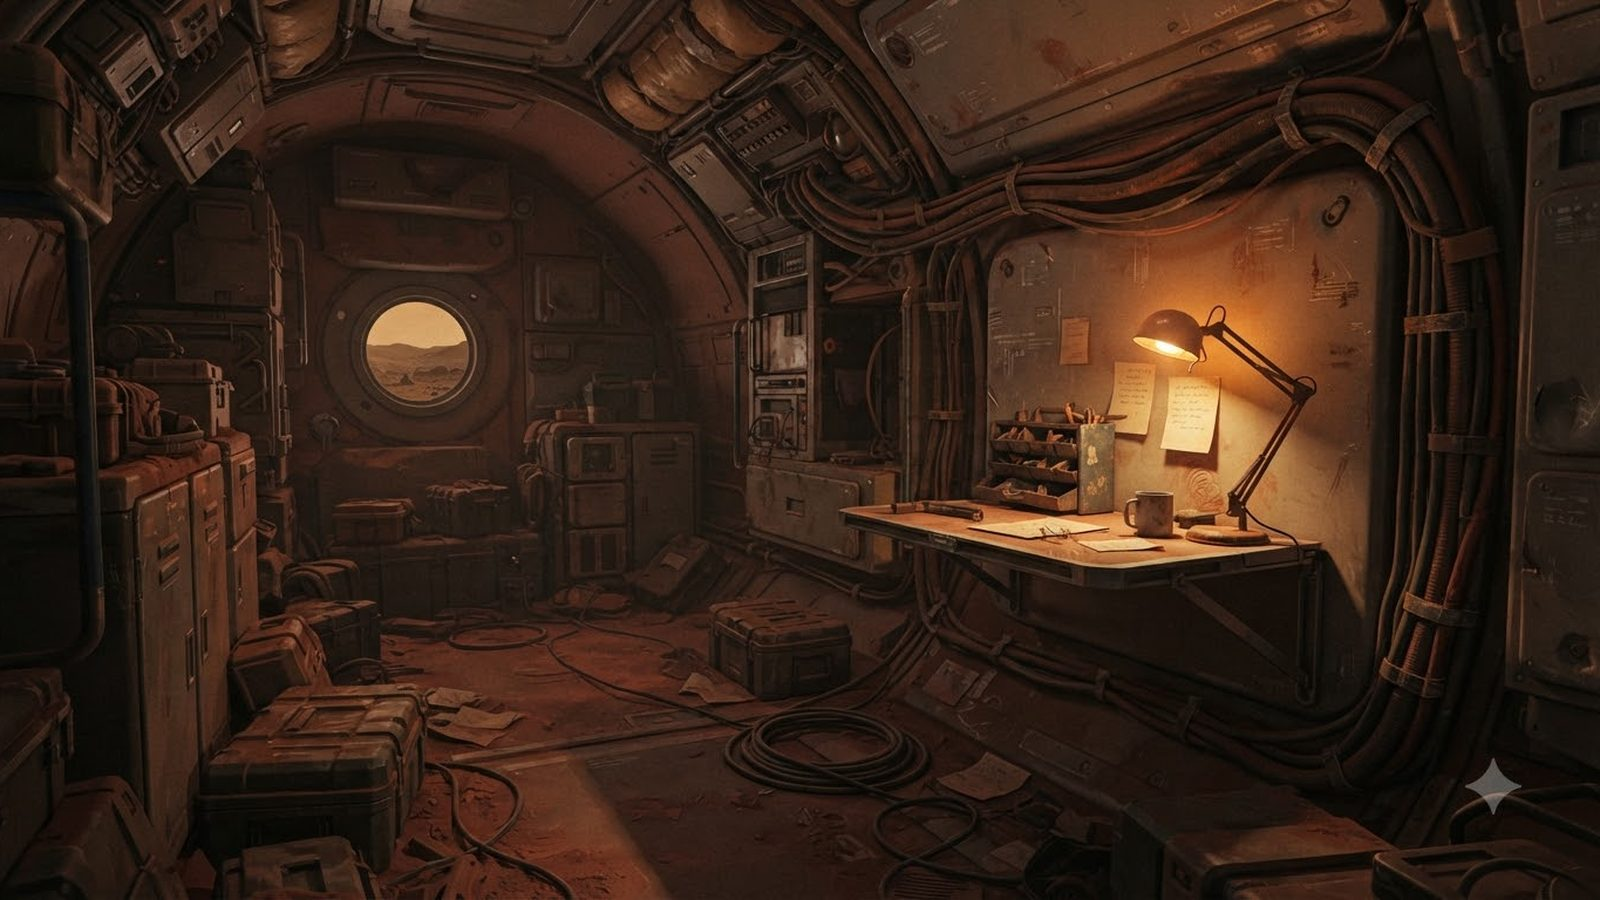
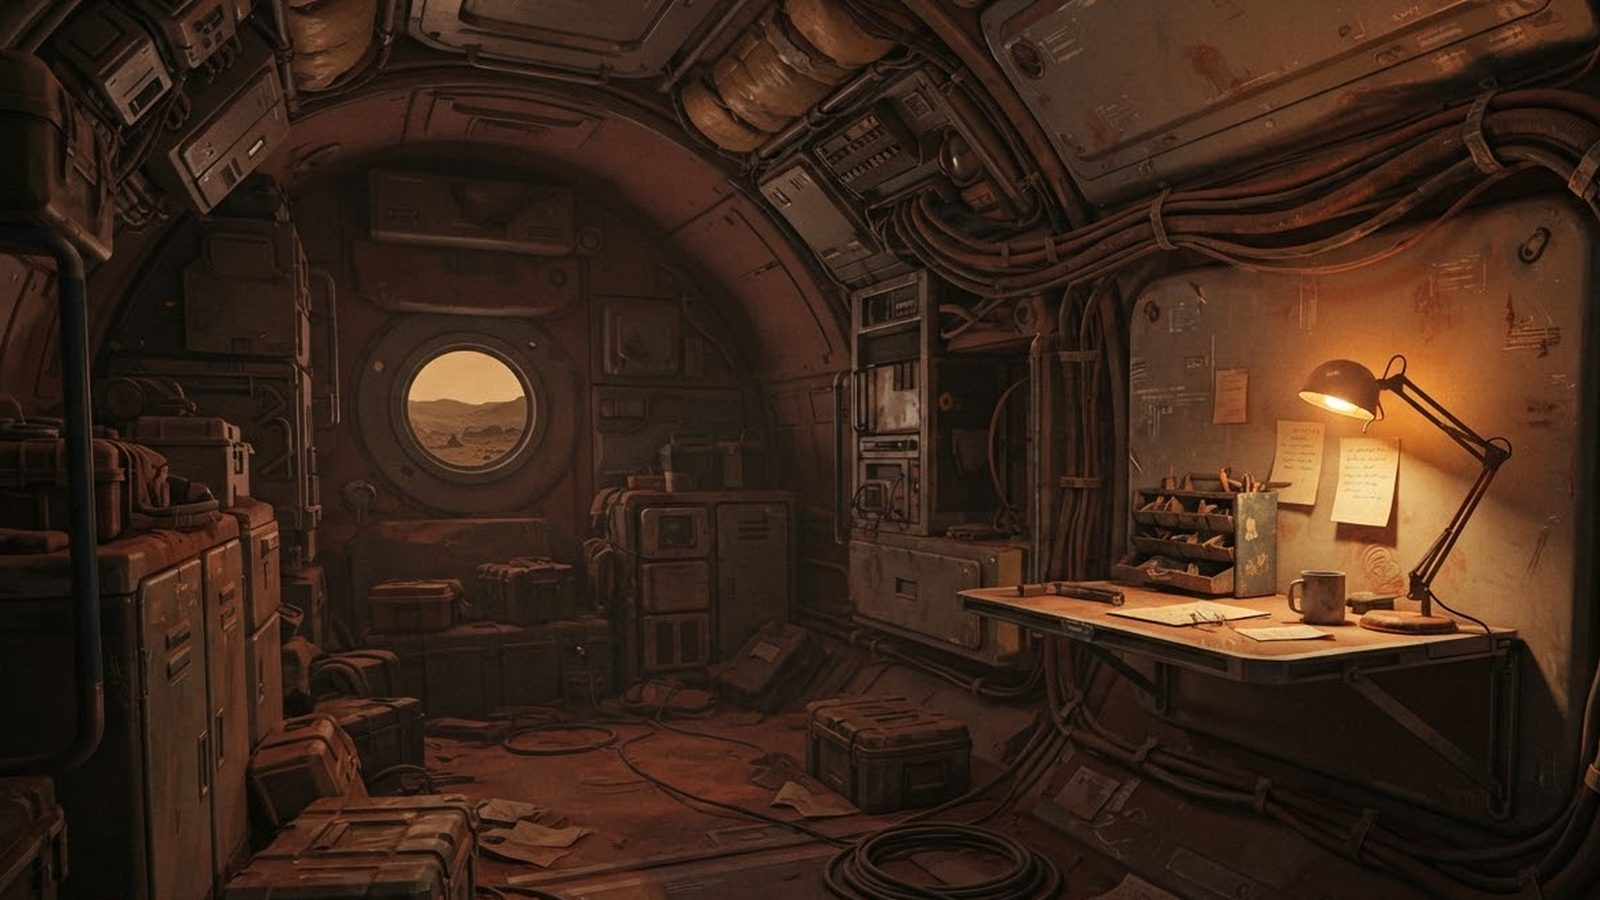
feat(art): regenerate 17 assets with adaptive watermark removal
- gen-assets.py regenerated full set (5 scenes + 12 icons, 1376x768 source)
- process-assets.py: find_watermark() detects star by low saturation +
  brightness against local background, adaptive threshold per region
- Watermark removal by cropping the contaminated edge strip instead of
  painting over: three inpaint attempts (flat fill, local background
  subtract, median filter) each left visible artefacts because the
  watermark is semi-transparent over live detail
- Verified all 17 assets: 0 watermark pixels remain, no artefacts
- Icons still 128x128 with 2px border and even padding; -50% total size

diff --git a/scripts/process-assets.py b/scripts/process-assets.py
@@ -17,6 +17,7 @@ import json
 import sys
 from pathlib import Path
 
+import numpy as np
 from PIL import Image, ImageChops, ImageDraw, ImageFilter
 
 ROOT = Path(__file__).resolve().parent.parent
@@ -34,45 +35,107 @@ ICON_PAD = 8
 ICON_QUALITY = 88
 
 
-def find_watermark_box(im):
-    """Khoanh vùng góc dưới phải để cắt bỏ watermark.
+def find_watermark(im, search_ratio=0.22):
+    """Dò watermark ngôi sao ở góc dưới phải.
 
-    Model hay đặt watermark trong khoảng 8 phần trăm cạnh ngắn nhất
-    ở góc dưới phải. Cắt thẳng vùng đó rẻ hơn và chắc hơn là dò
-    theo mẫu, vì watermark mỗi ảnh một kiểu.
+    Vì sao phải dò thay vì cắt cứng một vùng: model đặt watermark ở
+    khoảng cách khác nhau tuỳ ảnh (đo thật thấy tâm cách mép phải 7
+    phần trăm và cách đáy 13 phần trăm, chứ không sát góc), và kích
+    thước cũng đổi. Cắt cứng 10 phần trăm như bản trước để lại dấu.
+
+    Cách dò: watermark gần như trắng xám nên độ bão hoà rất thấp,
+    trong khi cảnh Sao Hỏa thì nâu cam bão hoà cao. Tìm cụm pixel
+    sáng và ít màu trong góc dưới phải rồi lấy khung bao của cụm lớn
+    nhất. Không thấy gì thì trả None, và ảnh giữ nguyên.
     """
+    a = np.array(im.convert('RGB')).astype(int)
+    h, w, _ = a.shape
+    lum = a.mean(axis=2)
+    sat = a.max(axis=2) - a.min(axis=2)
+
+    region = np.zeros((h, w), bool)
+    region[int(h * (1 - search_ratio)):, int(w * (1 - search_ratio)):] = True
+
+    cand = region & (lum > 52) & (sat < 30)
+    ys, xs = np.nonzero(cand)
+    if len(ys) < 40:
+        return None
+
+    # cụm thật thường nằm gần nhau; lấy vùng bao quanh trung vị để
+    # loại pixel sáng lẻ tẻ của chi tiết cảnh
+    cx, cy = int(np.median(xs)), int(np.median(ys))
+    keep = (np.abs(xs - cx) < w * 0.13) & (np.abs(ys - cy) < h * 0.20)
+    xs, ys = xs[keep], ys[keep]
+    if len(xs) < 30:
+        return None
+
+    # nới rộng thêm 40 phần trăm kích thước cụm để phủ hết phần mờ
+    # toả ra quanh ngôi sao
+    x0, x1, y0, y1 = xs.min(), xs.max(), ys.min(), ys.max()
+    pad = int(max(x1 - x0, y1 - y0) * 0.55)
+    return (
+        max(0, x0 - pad), max(0, y0 - pad),
+        min(w, x1 + pad), min(h, y1 + pad),
+    )
+
+
+def sample_background(im, box):
+    """Lấy màu nền đại diện cho vùng cần che.
+
+    Không lấy trung bình cả vùng, vì vùng đó có thể chứa cả vật thể
+    sáng lẫn nền tối. Thay vào đó lấy một dải ngay trên và bên trái
+    watermark, nơi gần như chắc chắn chỉ có nền.
+    """
+    x0, y0, x1, y1 = box
     w, h = im.size
-    pad = int(min(w, h) * 0.10)
-    return (w - pad, h - pad, w, h)
+    strip_top = im.crop((max(0, x0 - 10), max(0, y0 - 26), x1, max(1, y0 - 8)))
+    strip_left = im.crop((max(0, x0 - 26), max(0, y0 - 10), max(1, x0 - 8), y1))
+    samples = []
+    for strip in (strip_top, strip_left):
+        if strip.size[0] > 0 and strip.size[1] > 0:
+            samples.append(strip.resize((1, 1), Image.LANCZOS).getpixel((0, 0)))
+    if not samples:
+        return (10, 14, 20)
+    r = sum(c[0] for c in samples) // len(samples)
+    g = sum(c[1] for c in samples) // len(samples)
+    b = sum(c[2] for c in samples) // len(samples)
+    return (r, g, b)
 
 
 def trim_watermark(im):
-    """Xoá watermark bằng cách làm mờ vùng góc, giữ nguyên khung hình.
+    """Bỏ dải chứa watermark bằng cách cắt mép, rồi để bước sau phóng lại.
 
-    Không cắt bỏ hẳn vì sẽ lệch bố cục. Thay vào đó lấy mẫu màu quanh
-    vùng đó rồi tô đè, khiến watermark biến mất mà nền vẫn liền.
+    Đã thử ba cách tô đè và cả ba đều để lại dấu: tô màu phẳng làm mất
+    độ sần, trừ nền cục bộ để sót phần mờ, lọc trung vị không xoá hết
+    ngôi sao cỡ 50px. Watermark bán trong suốt nằm đè lên chi tiết nên
+    không có cách nào khôi phục đúng chi tiết bên dưới.
+
+    Cắt mép là cách sạch nhất: watermark nằm trong 6 phần trăm ngoài
+    cùng của ảnh, cắt bỏ dải đó không mất chi tiết kể chuyện nào, và
+    bước phóng về 16:9 phía sau lo phần bù kích thước. Không có vết
+    can thiệp nào để nhìn ra.
     """
+    box = find_watermark(im)
+    if not box:
+        return im
+
+    x0, y0, _, _ = box
     w, h = im.size
-    box = find_watermark_box(im)
-    region = im.crop(box)
 
-    # màu trung bình của vùng rìa ngoài watermark
-    small = region.resize((1, 1), Image.LANCZOS)
-    fill = small.getpixel((0, 0))
+    # cắt bỏ đúng phần từ mép trái của khung watermark tới mép phải,
+    # và từ mép trên khung watermark tới mép dưới
+    cut_w = max(0, w - x0)
+    cut_h = max(0, h - y0)
 
-    patch = Image.new('RGB', region.size, fill[:3])
-    patch = patch.filter(ImageFilter.GaussianBlur(region.size[0] / 6))
+    # giới hạn: không cắt quá 12 phần trăm mỗi chiều, nếu không ảnh
+    # mất bố cục và phóng lên sẽ vỡ nét
+    cut_w = min(cut_w, int(w * 0.12))
+    cut_h = min(cut_h, int(h * 0.14))
 
-    mask = Image.new('L', region.size, 0)
-    d = ImageDraw.Draw(mask)
-    # chỉ tô đậm dần vào góc, mép ngoài để nguyên
-    md = int(min(region.size) * 0.45)
-    d.ellipse([region.size[0] - md, region.size[1] - md,
-               region.size[0] + md, region.size[1] + md], fill=210)
-    mask = mask.filter(ImageFilter.GaussianBlur(md / 3))
+    if cut_w < 4 and cut_h < 4:
+        return im
 
-    im.paste(patch, box, mask)
-    return im
+    return im.crop((0, 0, w - cut_w, h - cut_h))
 
 
 def process_scene(path):
